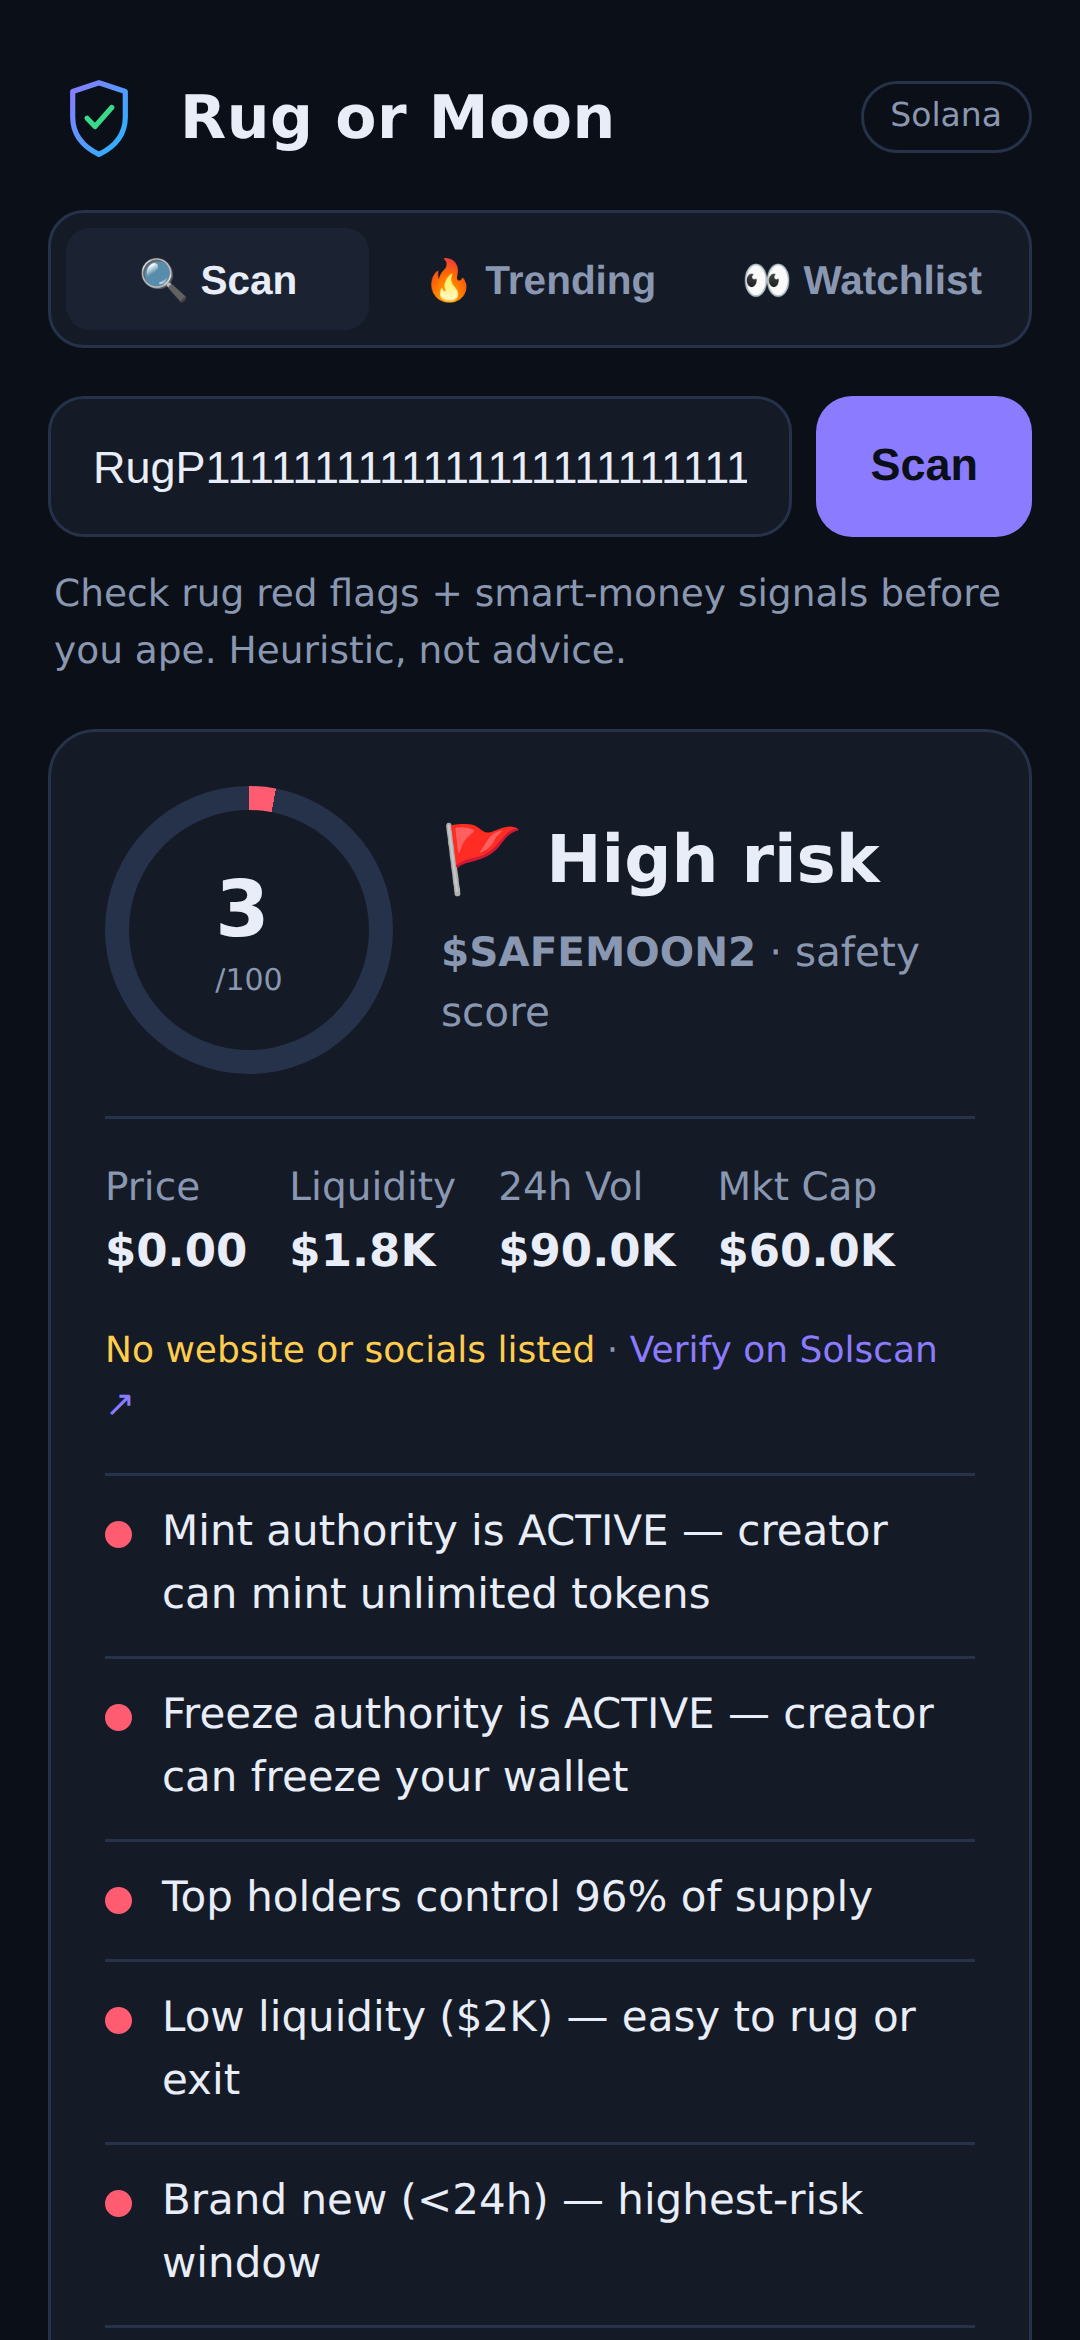
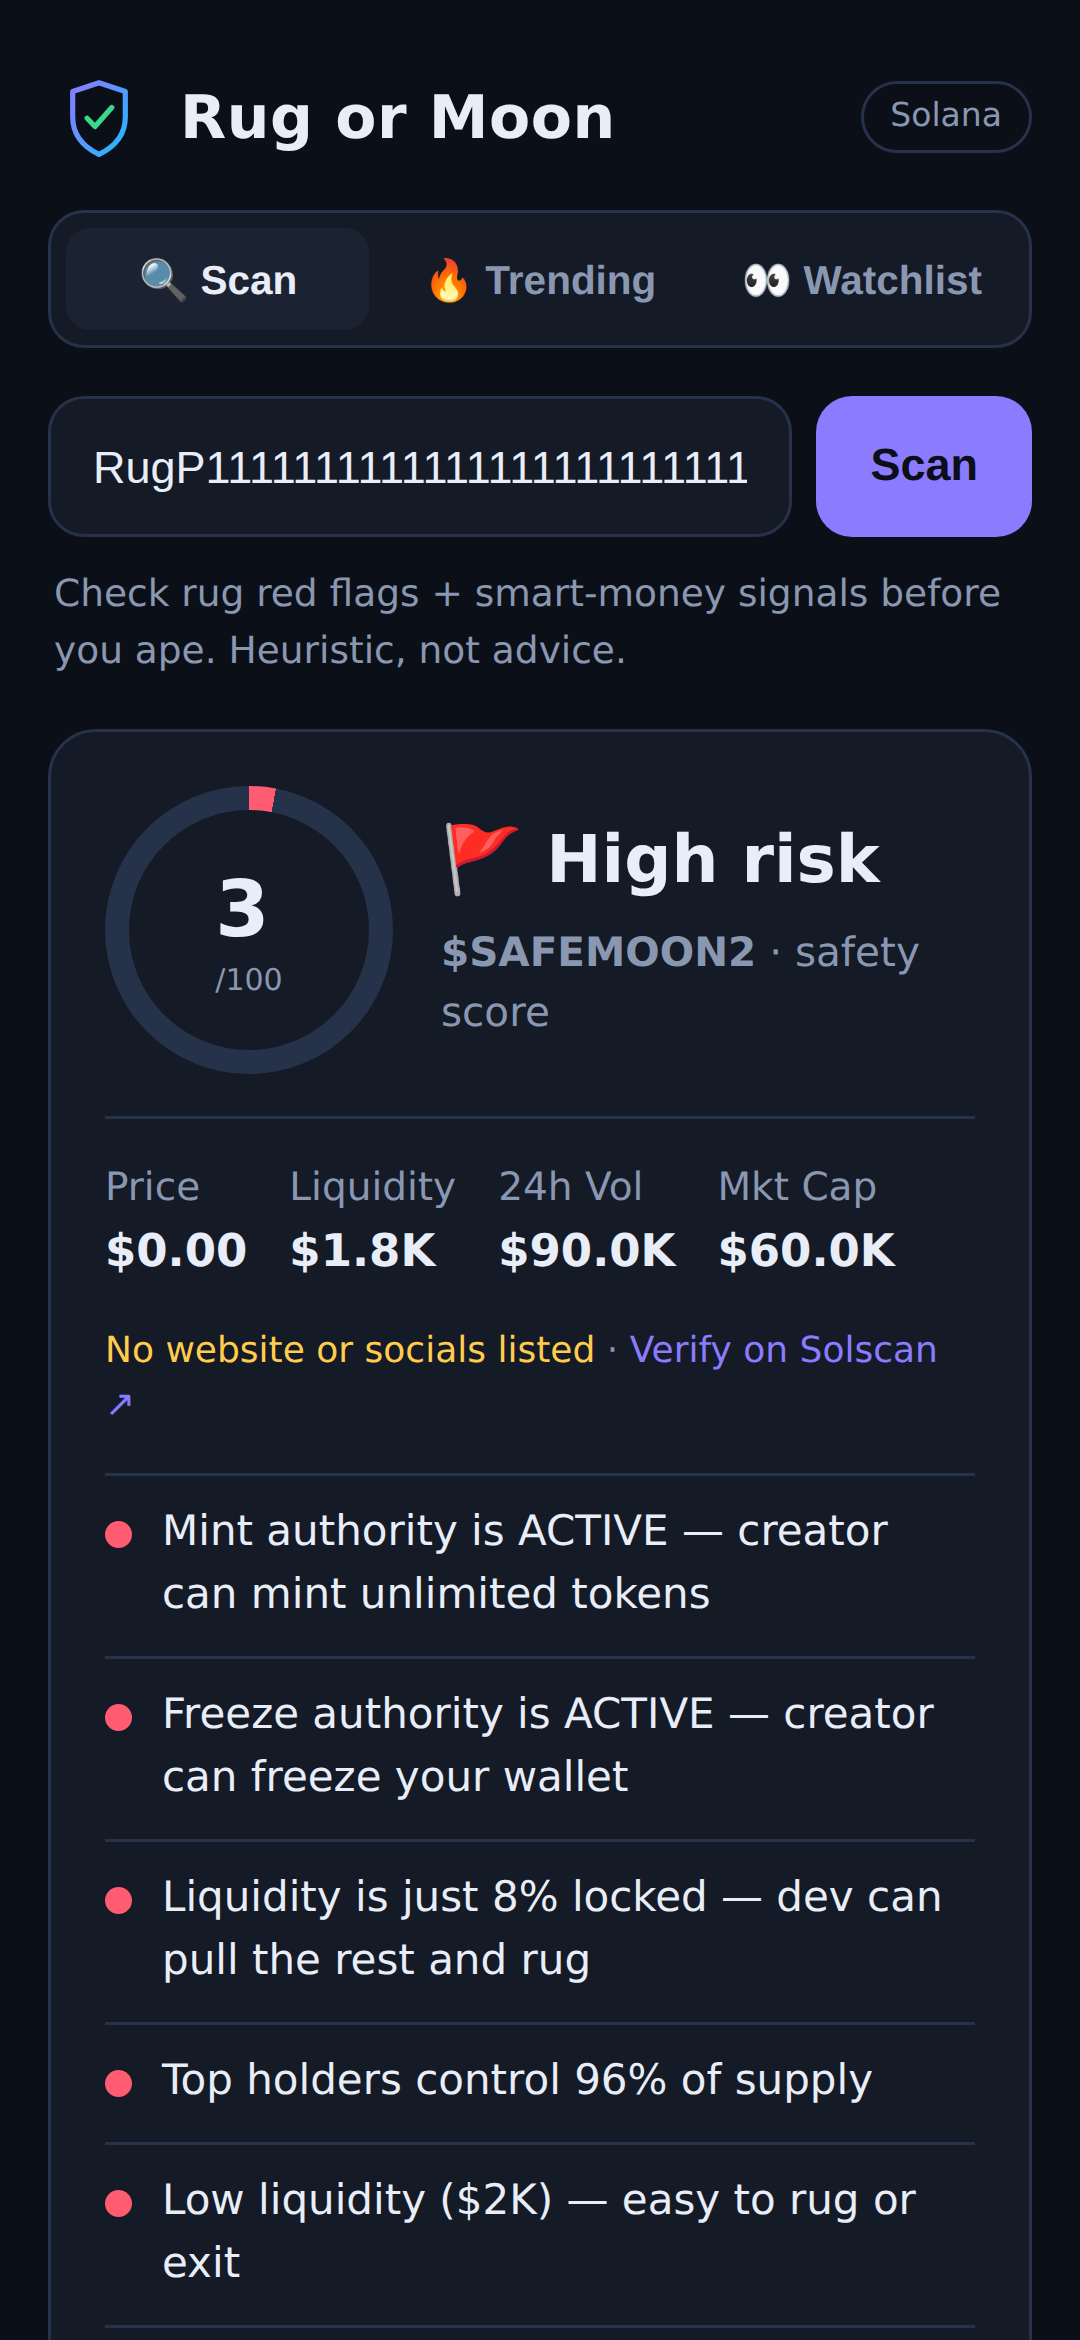
Rug or Moon: LP-lock detection via RugCheck (the last big trust gap)
scan.mjs now calls RugCheck's keyless public API in parallel for the one rug
lever we can't compute cheaply ourselves: what % of the liquidity is
locked/burned so the dev can't pull it. scoring.mjs turns it into flags +
tier caps:
- >=90% locked → green "dev can't pull it"
- 50-90% → yellow partial risk
- <50% → red "dev can pull the rest and rug" (caps tier at caution)
- RugCheck 'rugged' flag → high-risk

Best-effort and degrades cleanly: an unavailable RugCheck response invents no
signal (never a false green). Coded to RugCheck's documented schema; the
lpLockedPct needs a one-token sanity check on the live deployment since the
build sandbox has no network to verify against (documented in README).

Tests cover unlocked/locked/rugged cases; all mocks answer the new endpoint.
All 5 suites + browser smoke green; screenshots regenerated (the rug card now
shows the unlocked-LP flag).

Claude-Session: https://claude.ai/code/session_01P4YdgycSQey1q4cuRtSLa3

diff --git a/rug-or-moon/README.md b/rug-or-moon/README.md
@@ -2,10 +2,11 @@
 
 A **Solana token safety + alpha scanner** PWA for the Seeker dApp Store. Paste a
 token address → get a heuristic **safety score** (mint/freeze authority, holder
-concentration by *owner*, liquidity, age, wash-trading smell, plus **Token-2022
-honeypot vectors** — permanent delegate, transfer hook, transfer tax, freeze-by-
-default — and a can't-sell trading-shape check) plus **alpha signals** (smart
-money holding, buy/sell momentum) — the 5-second "should I ape this?" check.
+concentration by *owner*, liquidity, age, wash-trading smell, **LP-lock status**
+(is the liquidity locked/burned so the dev can't pull it — via RugCheck), plus
+**Token-2022 honeypot vectors** — permanent delegate, transfer hook, transfer
+tax, freeze-by-default — and a can't-sell trading-shape check) plus **alpha
+signals** (smart money holding, buy/sell momentum) — the "should I ape?" check.
 
 > Trust rule: the engine never certifies what it can't verify. An unknown fact
 > reads as "unknown" (never "revoked"), and hard danger signals **cap the verdict**
@@ -42,6 +43,12 @@ money holding, buy/sell momentum) — the 5-second "should I ape this?" check.
   through the same `scanToken()` pipeline, returning a gems→rugs board.
 - **`api/share.mjs`** — per-token Open Graph page so a pasted scan link unfurls
   the verdict in chat apps, then redirects humans into the app.
+- **LP-lock via RugCheck** — `api/scan.mjs` also calls RugCheck's keyless public
+  API (`api.rugcheck.xyz`) for the one thing we can't compute cheaply ourselves:
+  what % of the liquidity is locked/burned. Best-effort — if it's unavailable, no
+  signal is invented. Coded to RugCheck's documented schema; **sanity-check the
+  `lpLockedPct` against one real token after deploy** (it couldn't be verified
+  against live pools in the build sandbox).
 - **`scoring.mjs`** — the pure, tested scoring engine (shared by the API + tests).
 - **`watchlist.mjs`** — the pure, tested diff/alert + freemium logic (what counts
   as an alert-worthy change between two scans). The UI mirrors it client-side.
